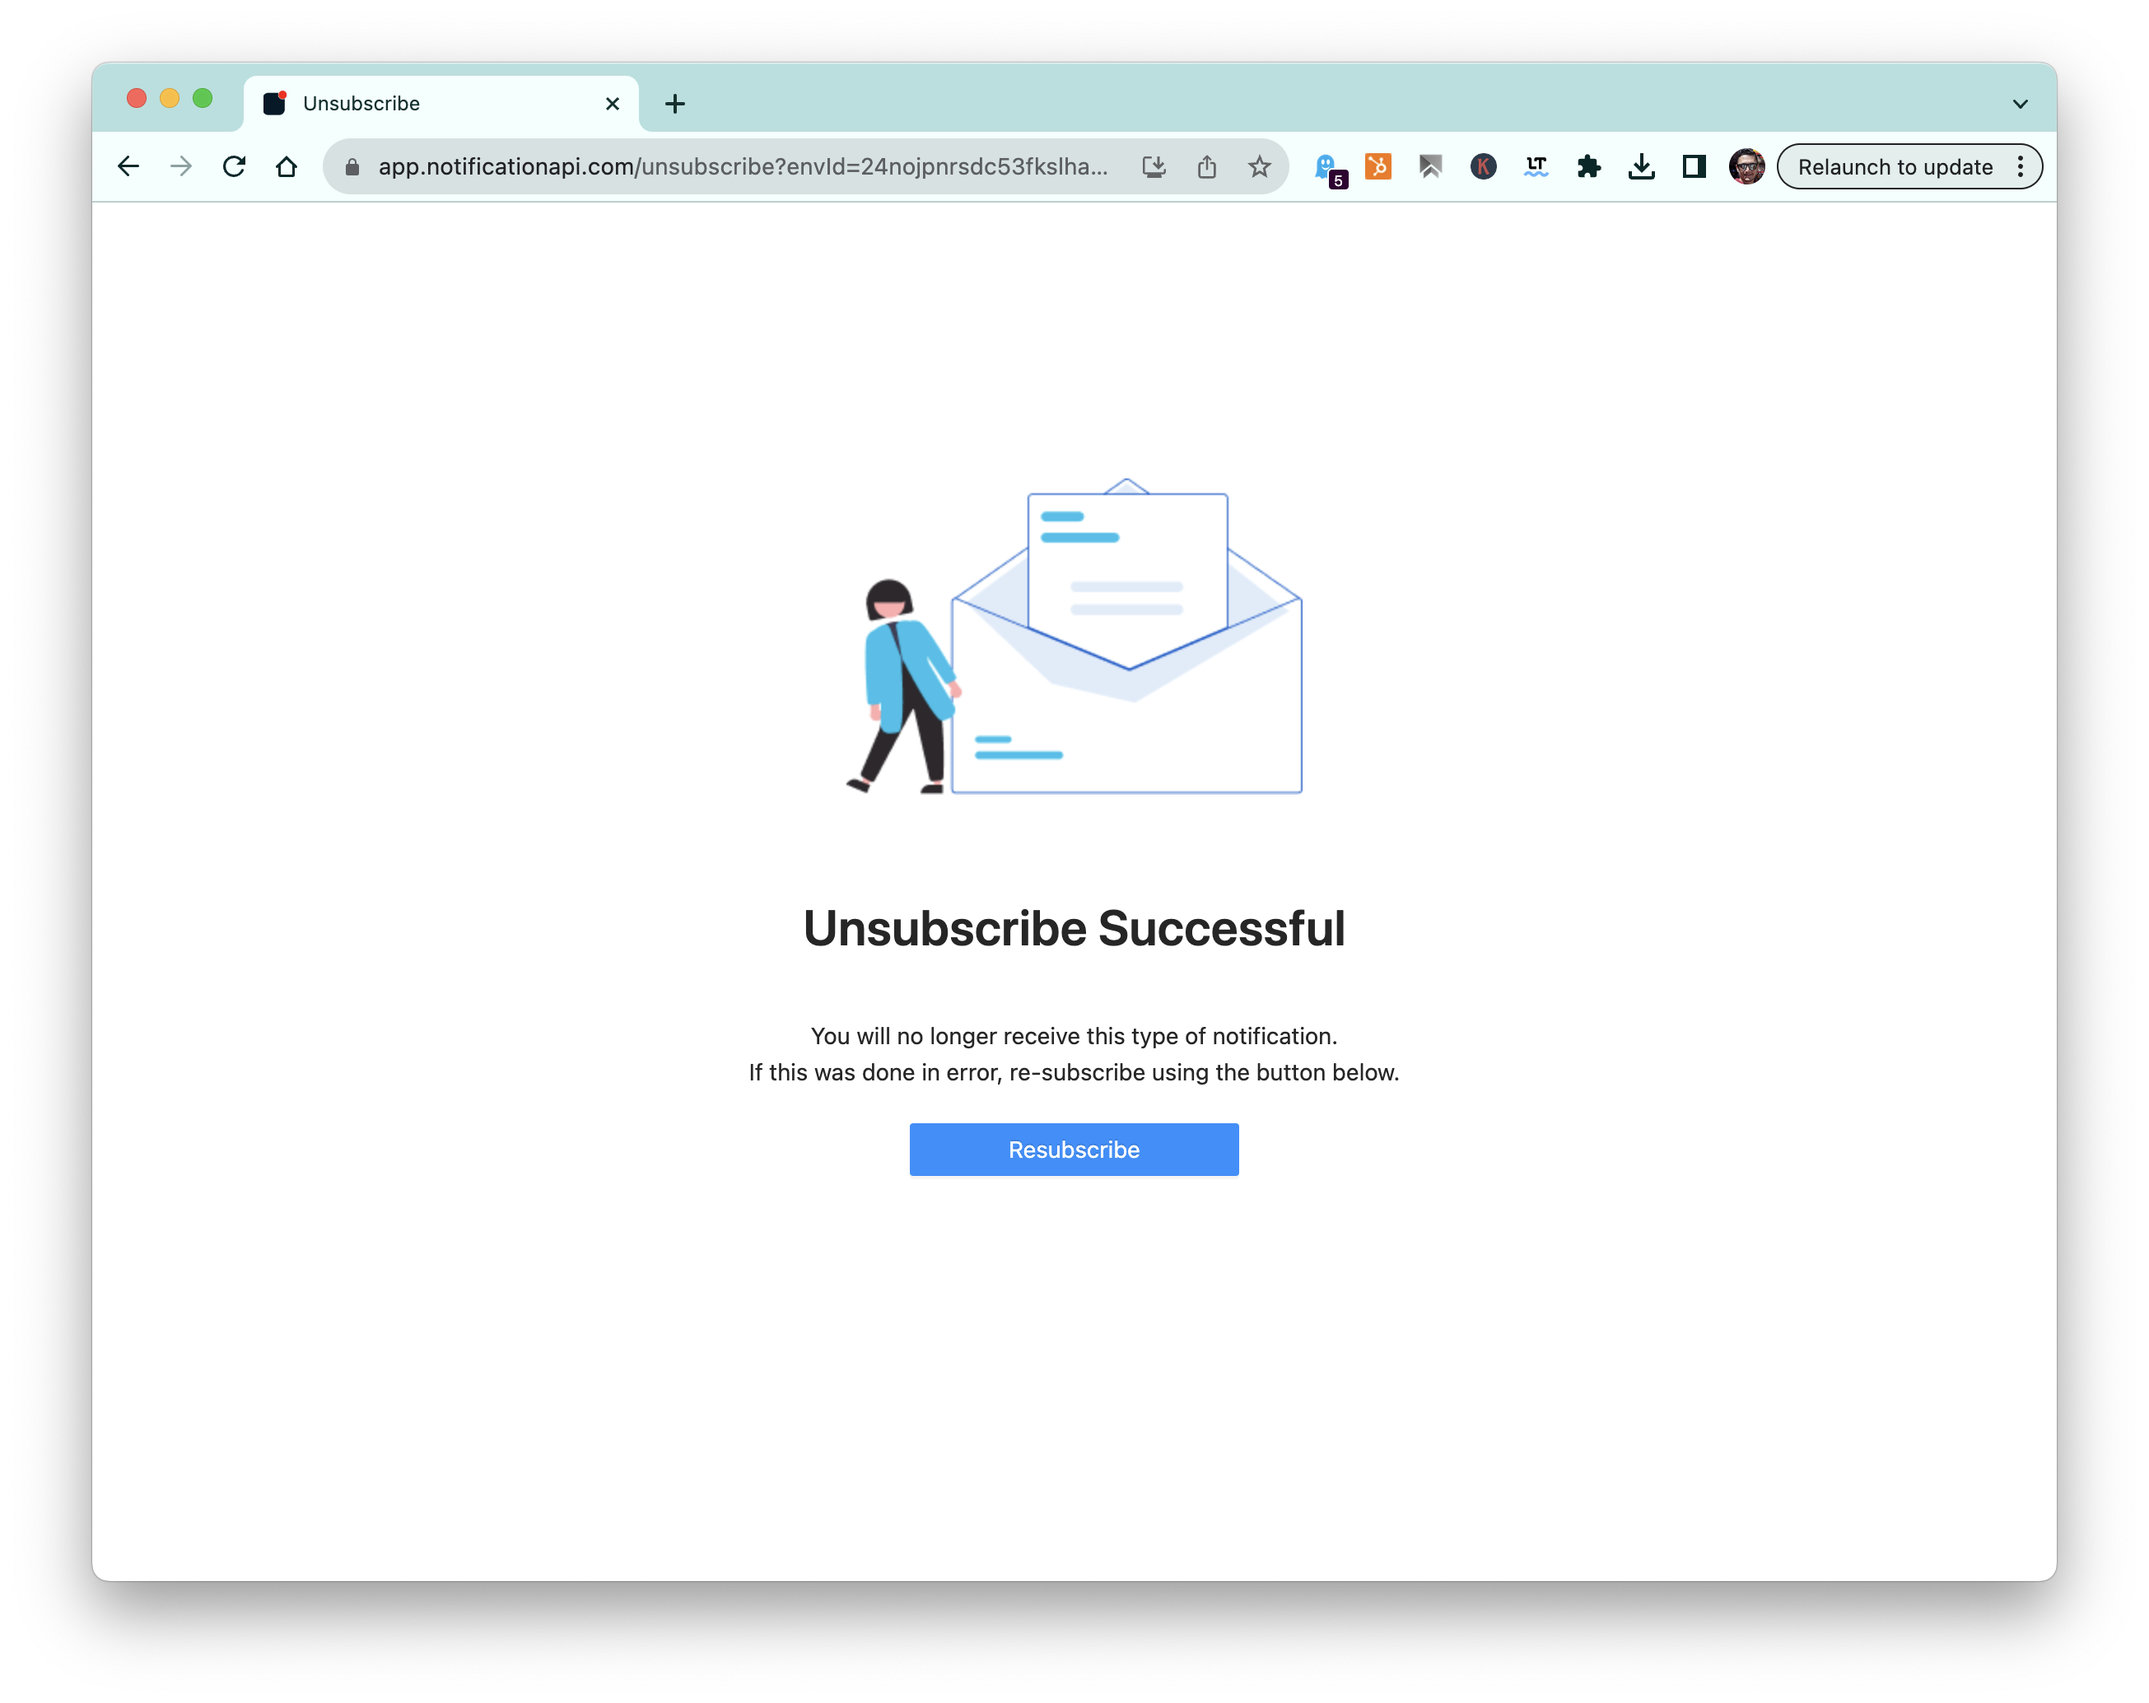
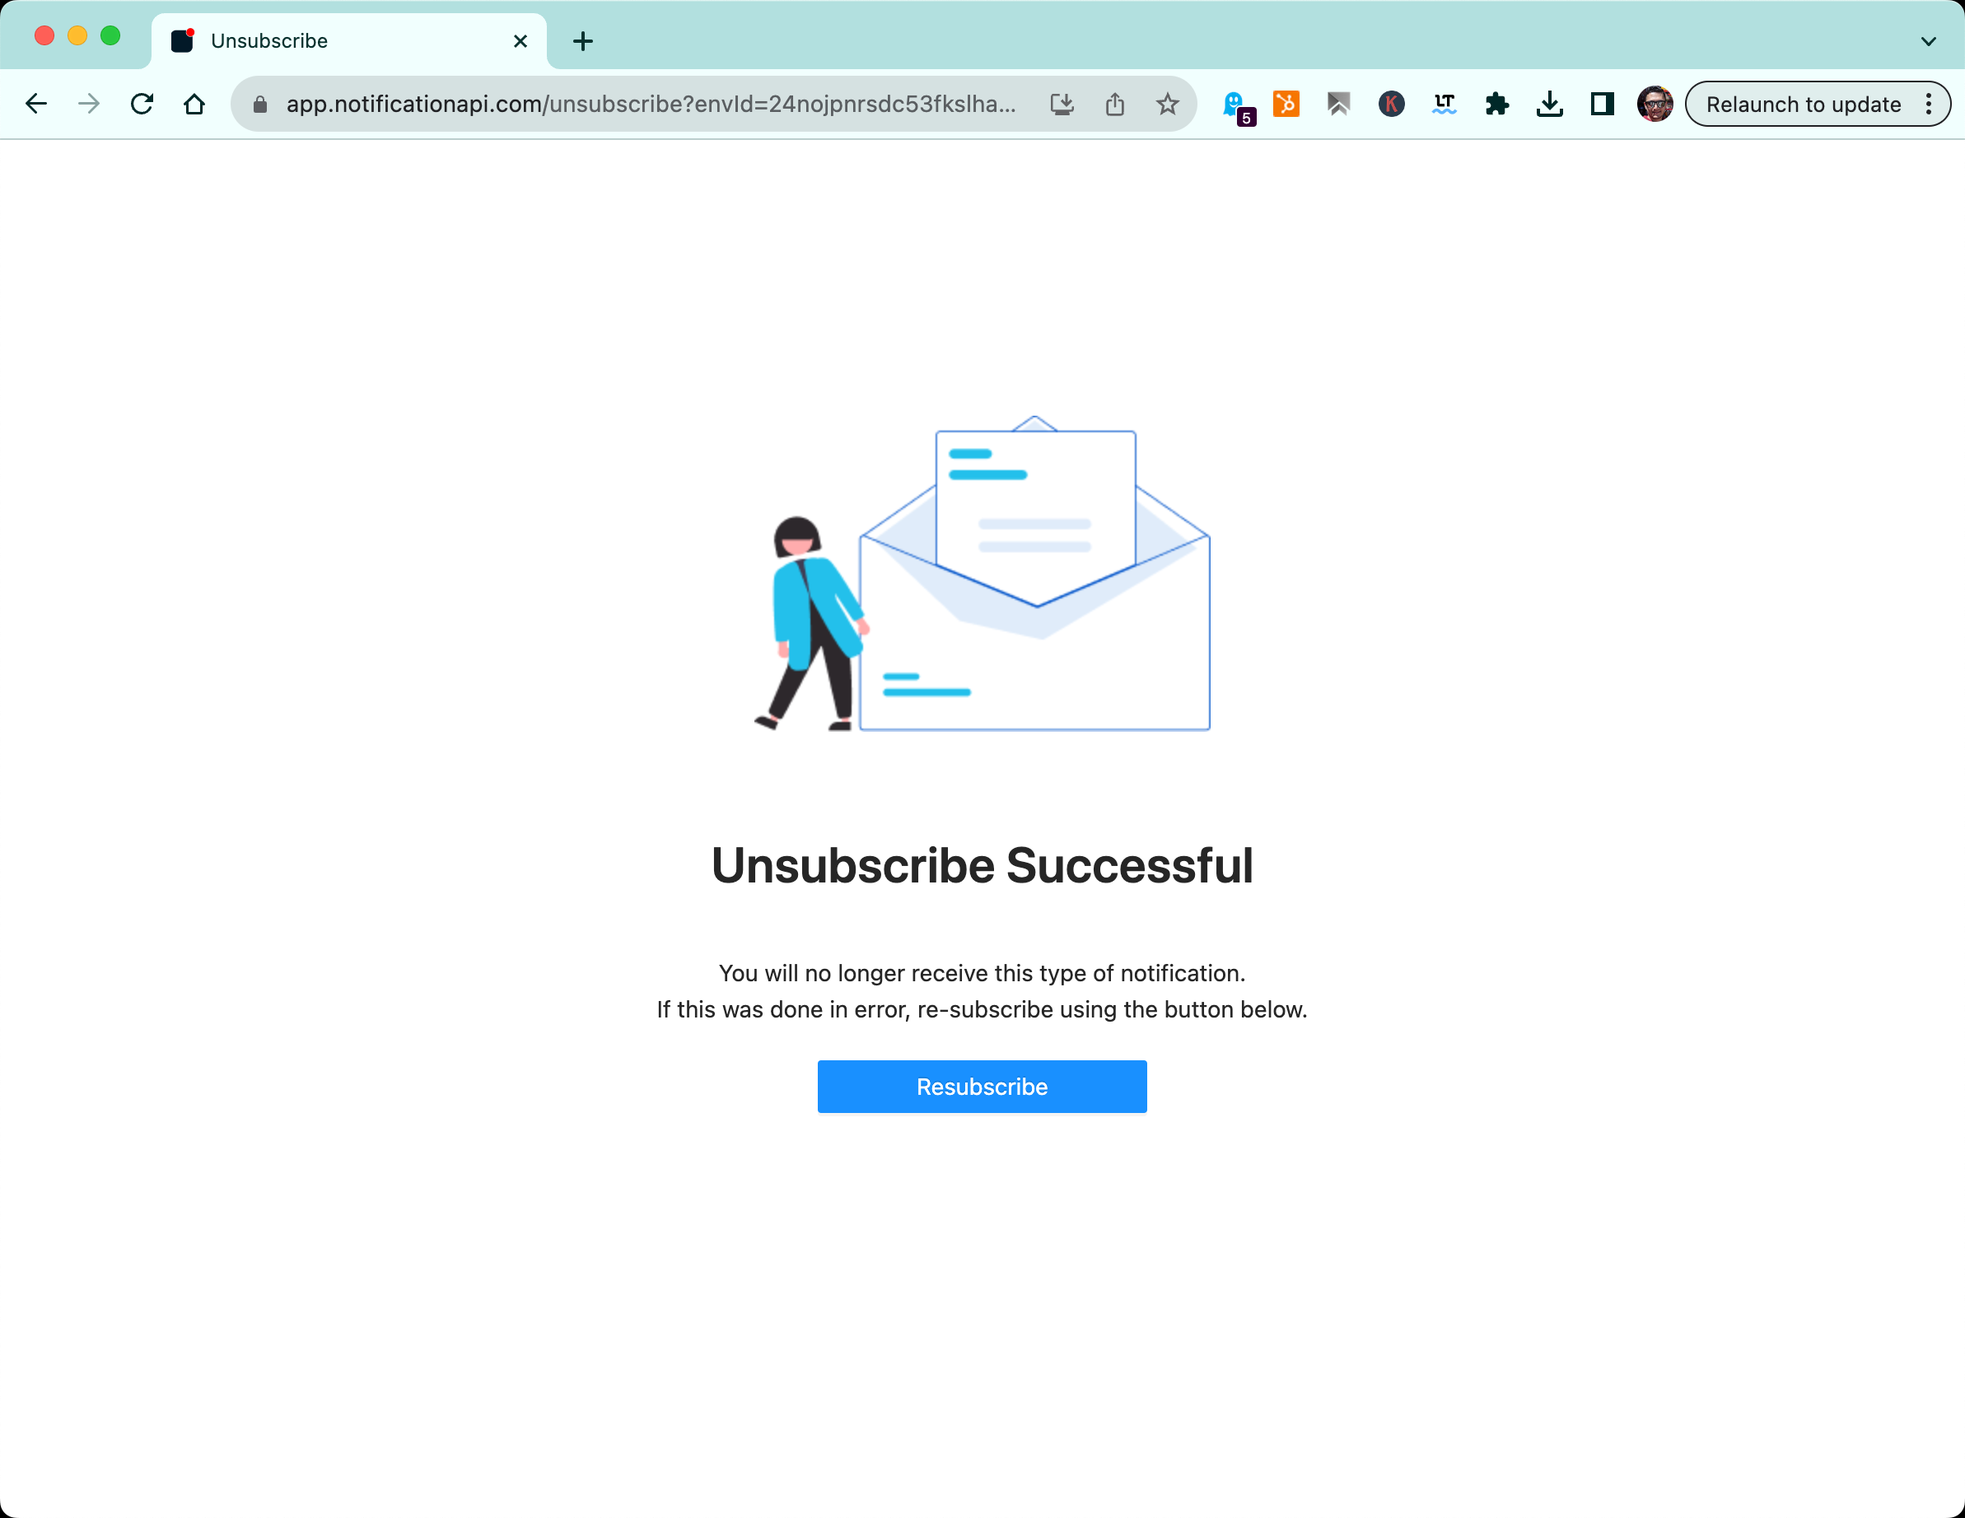
Image fixes
Fix images to allow scaling and fix empty space for images with Gimp

diff --git a/docs/components/unsubscribe-page.md b/docs/components/unsubscribe-page.md
@@ -2,7 +2,7 @@
 
 import notificationapi_unsub from '@site/static/notificationapi_unsub.png';
 
-<img src={notificationapi_unsub} style={{maxWidth: 600}} />
+<img src={notificationapi_unsub} style={{maxWidth: 600, borderRadius: 8, width: "100%", marginBottom: 20}} />
 
 Email best-practice recommends including a "One-Click Unsubscribe Link" in your emails. This URL, upon being opened should automatically unsubscribes the user from that notification. It can also show some content with your branding and message.
 
@@ -19,7 +19,7 @@ Starting February 2024, Google is enforcing a new policy that requires all email
 
 Google will use this link to display a unsubscribe link in the Gmail UI, as shown below:
 
-<img src={unsubscribe} style={{maxWidth: 400, borderRadius: 8}} />
+<img src={unsubscribe} style={{maxWidth: 400, borderRadius: 8, width: "100%"}} />
 
 :::
 
@@ -32,7 +32,7 @@ Google will use this link to display a unsubscribe link in the Gmail UI, as show
 
 import notificationapi_unsub2 from '@site/static/notificationapi_unsub2.png';
 
-<img src={notificationapi_unsub2} style={{maxWidth: 400, borderRadius: 8}} />
+<img src={notificationapi_unsub2} style={{maxWidth: 400, borderRadius: 8, width: "100%"}} />
 
 ## Can I customize this page?
 

diff --git a/docs/features/digest.md b/docs/features/digest.md
@@ -22,7 +22,8 @@ style={{
     maxWidth: 480,
     borderRadius: 8,
     border: '1px solid #d9d9d9',
-    marginBottom: 20
+    marginBottom: 20,
+    width: "100%"
   }}
 />
 
@@ -36,7 +37,8 @@ import userPreference from '@site/static/UserPreferencesEmailBatching.png';
 src={userPreference}
 style={{
     maxWidth: 480,
-    borderRadius: 8
+    borderRadius: 8,
+    width: "100%"
   }}
 />
 
@@ -66,7 +68,8 @@ import EmailEditorBatching from '@site/static/EmailEditorBatching.png';
 src={EmailEditorBatching}
 style={{
     maxWidth: 800,
-    borderRadius: 8
+    borderRadius: 8,
+    width: "100%"
   }}
 />
 
@@ -90,7 +93,8 @@ import InAppEditorBatched from '@site/static/InAppEditorBatched.png';
 src={InAppEditorBatched}
 style={{
     maxWidth: 600,
-    borderRadius: 8
+    borderRadius: 8,
+    width: "100%"
   }}
 />
 

diff --git a/docs/channels/web-push.md b/docs/channels/web-push.md
@@ -2,12 +2,12 @@
 
 import webpush from '@site/static/webpush.png';
 
-<img src={webpush} style={{maxWidth: 400, borderRadius: 8, marginBottom: 20}} />
+<img src={webpush} style={{maxWidth: 400, borderRadius: 8, marginBottom: 20, width: "100%"}} />
 <br/>
 
 import webpush2 from '@site/static/webpush2.png';
 
-<img src={webpush2} style={{maxWidth: 400, borderRadius: 8, marginBottom: 20}} />
+<img src={webpush2} style={{maxWidth: 400, borderRadius: 8, marginBottom: 20, width: "100%"}} />
 
 Web push notifications look almost identical to native notification on the device. However, they require the user to opt-in from their browser when they are on your website/front-end.
 

diff --git a/docs/features/deduplication.md b/docs/features/deduplication.md
@@ -17,7 +17,7 @@ A notification is duplicate if it is:
 
 import img from '@site/static/NotificationAPI notification as a service deduplication feature.png';
 
-<img src={img} style={{maxWidth: 480, borderRadius: 8, border: '1px solid #d9d9d9', marginBottom: 20 }} />
+<img src={img} style={{maxWidth: 480, borderRadius: 8, border: '1px solid #d9d9d9', marginBottom: 20, width: "100%" }} />
 
 When setting up deduplication, you are asked to select a deduplication duration. This is the window of time during which we will consider a notification a duplicate of another.
 

diff --git a/docs/features/throttling.md b/docs/features/throttling.md
@@ -8,7 +8,7 @@ You can pick how many of the same notification you want to allow to be sent to a
 
 import img from '@site/static/NotificationAPI - Notifications as a service - throttling detection 6.png';
 
-<img src={img} style={{maxWidth: 480, borderRadius: 8, border: '1px solid #d9d9d9', marginBottom: 20 }} />
+<img src={img} style={{maxWidth: 480, borderRadius: 8, border: '1px solid #d9d9d9', marginBottom: 20, width: "100%"}} />
 
 For example, if you configure throttling to allow 5 `delivery_tracking` notifications within one hour, it means that:
 

diff --git a/docs/channels/email.md b/docs/channels/email.md
@@ -34,7 +34,7 @@ You DON'T need another 3rd-party email service like SendGrid or SES. Through our
 
 import BeePNG from '@site/static/bee.webp';
 
-<img src={BeePNG} style={{maxWidth: 500, borderRadius: 8, marginBottom: 20}} />
+<img src={BeePNG} style={{maxWidth: 500, borderRadius: 8, marginBottom: 20, width: "100%"}} />
 
 To remove the burden of manually building email templates, we have integrated a fully loaded email editor. Now everyone on your team can create and modify your email notfications without coding.
 

diff --git a/docs/guides/domain-verification.md b/docs/guides/domain-verification.md
@@ -26,4 +26,4 @@ The MAIL-FROM field is different than the "From" address. This field indicates w
 
 The Domain Verification method sets this field to _notificationapi.yourdomain.com_, which is better for deliverability and branding.
 
-<img src={mailfrom} style={{maxWidth: 600, borderRadius: 8}} />
+<img src={mailfrom} style={{maxWidth: 600, borderRadius: 8, width: "100%"}} />

diff --git a/docs/quick-start/display-inapp-notifications.md b/docs/quick-start/display-inapp-notifications.md
@@ -18,7 +18,7 @@ We provide an <strong>in-app notification widget</strong> compatible with most f
 import InAppPNG from '@site/static/inapp.png';
 
 <div style={{display: "flex", justifyContent: "start"}}>
-  <img src={InAppPNG} style={{maxWidth: 400, borderRadius: 8}} />
+  <img src={InAppPNG} style={{maxWidth: 500, borderRadius: 8, width: "100%"}} />
 </div>
 
 ## Playground

diff --git a/docs/quick-start/manage-preferences.md b/docs/quick-start/manage-preferences.md
@@ -20,7 +20,7 @@ Our notification preferences widget works out-of-the-box with most front-end fra
 
 import UserPref from '@site/static/userpref.gif';
 
-<img src={UserPref} style={{maxWidth: 300, marginBottom: 24, borderRadius: 8}} />
+<img src={UserPref} style={{maxWidth: 500, marginBottom: 24, borderRadius: 8, width: "100%"}} />
 
 There are 2 ways to access the widget:
 

diff --git a/docs/channels/inapp.md b/docs/channels/inapp.md
@@ -8,7 +8,7 @@ In-app notifications are messages that appear inside your web application, for e
 
 import InAppPNG from '@site/static/inapp.png';
 
-<img src={InAppPNG} style={{maxWidth: 400, borderRadius: 8}} />
+<img src={InAppPNG} style={{maxWidth: 400, borderRadius: 8, width: "100%"}} />
 
 ## Supported Environments
 

diff --git a/docs/features/logs.md b/docs/features/logs.md
@@ -12,7 +12,7 @@ To programmatically access the log of your requests, you can use the [queryLogs]
 
 :::
 
-<img src={logs} style={{maxWidth: 800, borderRadius: 8, marginTop: 16}} />
+<img src={logs} style={{maxWidth: 800, borderRadius: 8, marginTop: 16, width: "100%"}} />
 
 ## Notification States
 

diff --git a/docs/reference/react-sdk.md b/docs/reference/react-sdk.md
@@ -160,7 +160,7 @@ const [preferencesPopupVisibility, setPreferencesPopupVisiblity] = React.useStat
 />
 ```
 
-<img src={InAppPreferences} style={{maxWidth: 600, borderRadius: 8}} />
+<img src={InAppPreferences} style={{maxWidth: 600, borderRadius: 8, width: "100%"}} />
 
 <br/><br/>
 
